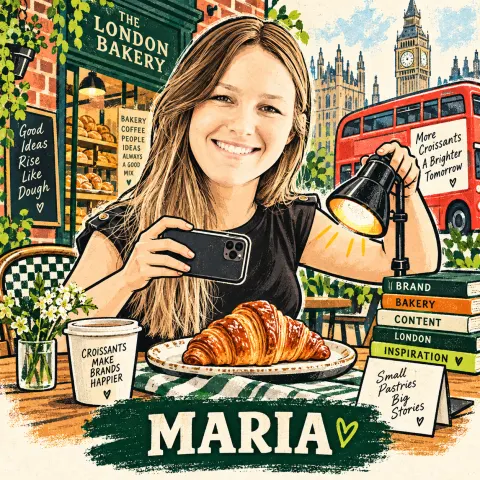
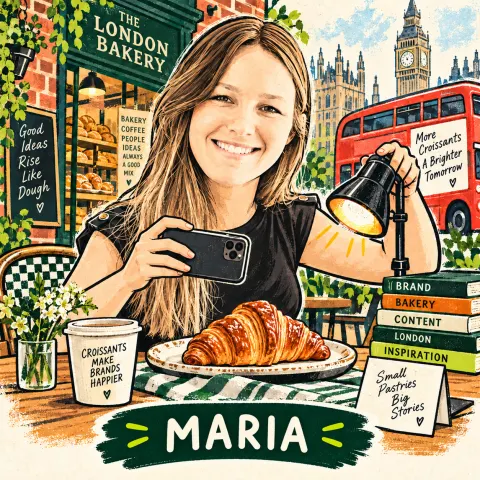
Groep: cartoon Emilie, nieuwe Maria en groepsfoto met alle twintig

diff --git a/app.js b/app.js
@@ -42,7 +42,7 @@ const people=[
 ['maurits-casteleijn','Maurits','Casteleijn',false,'assets/people/maurits-casteleijn',null,'Cartoon van Maurits die een monsterkoffer vol minibroodjes en potjes grondstoffen opent alsof het juwelen zijn.'],
 ['wout-nollen','Wout','Nollen',false,'assets/people/wout-nollen',null,'Cartoon van Wout die een vol blik verse broden balanceert en ondertussen een productielijst afvinkt.'],
 ['anke-daling','Anke','Daling',false,'assets/people/anke-daling',null,'Cartoon van Anke die in een Londens café lachend wijst naar een stijgende grafiek van croissants op haar laptop.'],
-['emilie-tolhuisen','Emilie','Tolhuisen'],
+['emilie-tolhuisen','Emilie','Tolhuisen',false,'assets/people/emilie-tolhuisen',null,'Cartoon van Emilie met lang rood haar die een Londense taart met Big Ben, de London Eye en garde-soldaatjes afwerkt met een spuitzak.'],
 ['rico-romijn','Rico','Romijn',false,'assets/people/rico-romijn',null,'Cartoon van Rico die als testbakker een flinterdun vliesje deeg uitrekt, met proefbroodjes en een weegschaal op de werkbank.'],
 ['jim-van-aken','Jim','van Aken',false,'assets/people/jim-van-aken',null,'Cartoon van Jim die onder een zilveren stolp een overdadig luxe brood onthult.'],
 ['anne-van-kraaij','Anne','van Kraaij',false,'assets/people/anne-van-kraaij',null,'Cartoon van Anne die met een liniaaltje een croissant precies op zijn plek legt in een winkelpresentatie.']
@@ -52,7 +52,7 @@ const initials=p=>(p.voornaam[0]+p.achternaam.split(' ').filter(w=>!/^(van|de|de
 function personCard(p){const tag=p.projectgroep?'<span class="pg">Projectgroep</span>':'';
 if(p.afbeelding)return `<li><button class="person" data-person="${p.id}" aria-haspopup="dialog"><img src="${p.afbeelding}-480.webp" width="480" height="480" loading="lazy" decoding="async" alt="${p.alt}"><span class="pname">${fullName(p)}</span>${tag}<span class="sr">, bekijk grote illustratie</span></button></li>`;
 return `<li><div class="person pending"><span class="initials" aria-hidden="true">${initials(p)}</span><span class="pname">${fullName(p)}</span>${tag}<span class="soon">Cartoon volgt</span></div></li>`}
-function group(){const done=people.filter(p=>p.afbeelding).length;view.innerHTML=`<figure class="group-hero"><div class="hero-scroll"><button class="hero-btn" id="hero-open" aria-label="Groepscartoon groot bekijken"><img src="assets/group/groep.webp" srcset="assets/group/groep-1200.webp 1200w, assets/group/groep.webp 2157w" sizes="(max-width:700px) 780px, 100vw" width="2157" height="729" alt="Groepscartoon van de Bakery Nexus-groep voor Tower Bridge, ieder met zijn eigen bakkersvak"></button></div><figcaption class="muted">Veeg opzij om iedereen te zien · tik om te vergroten</figcaption></figure><div class="section-head"><h2>De groep.</h2><span class="muted">${people.length} deelnemers · ${done} cartoons klaar</span></div><p class="group-intro">Iedereen krijgt een eigen Londens personage. Tik op een cartoon om hem groot te bekijken.</p><ul class="people">${people.map(personCard).join('')}</ul><dialog id="person-dialog" aria-labelledby="pd-title"><form method="dialog"><button class="pd-close" aria-label="Sluiten">✕</button></form><img id="pd-img" width="1080" height="1080" alt=""><p id="pd-title"></p></dialog>`;
+function group(){const done=people.filter(p=>p.afbeelding).length;view.innerHTML=`<figure class="group-hero"><div class="hero-scroll"><button class="hero-btn" id="hero-open" aria-label="Groepscartoon groot bekijken"><img src="assets/group/groep.webp" srcset="assets/group/groep-1000.webp 1000w, assets/group/groep.webp 1448w" sizes="(max-width:700px) 100vw, 1100px" width="1448" height="1086" alt="Groepscartoon van de Bakery Nexus-groep voor Tower Bridge, alle twintig met hun eigen bakkersvak"></button></div></figure><div class="section-head"><h2>De groep.</h2><span class="muted">${people.length} deelnemers · ${done} cartoons klaar</span></div><p class="group-intro">Iedereen heeft een eigen Londens personage. Tik op een cartoon om hem groot te bekijken.</p><ul class="people">${people.map(personCard).join('')}</ul><dialog id="person-dialog" aria-labelledby="pd-title"><form method="dialog"><button class="pd-close" aria-label="Sluiten">✕</button></form><img id="pd-img" width="1080" height="1080" alt=""><p id="pd-title"></p></dialog>`;
 const dlg=document.getElementById('person-dialog');document.getElementById('hero-open').onclick=()=>{const img=document.getElementById('pd-img');img.src='assets/group/groep.webp';img.alt='Groepscartoon van de Bakery Nexus-groep voor Tower Bridge';document.getElementById('pd-title').textContent='Bakery Nexus × London';dlg.classList.add('breed');dlg.showModal()};dlg.addEventListener('close',()=>dlg.classList.remove('breed'));view.querySelectorAll('[data-person]').forEach(b=>b.onclick=()=>{const p=people.find(x=>x.id===b.dataset.person);const img=document.getElementById('pd-img');img.src=p.afbeelding+'.webp';img.alt=p.alt;document.getElementById('pd-title').textContent=fullName(p);dlg.showModal()});
 dlg.addEventListener('click',e=>{if(e.target===dlg)dlg.close()})}
 // Inspiratieboek: foto's en notities centraal in Supabase.

diff --git a/style.css b/style.css
@@ -13,6 +13,6 @@
 @media print{#idee-dialog{display:none}}
 .board{display:grid;grid-template-columns:1fr 1fr;gap:18px;margin-bottom:18px}.board .card{padding:20px 22px}.board ol{list-style:none;margin:12px 0 0;padding:0;display:grid;gap:10px}.board li,.board-idee{display:flex;align-items:center;gap:10px;min-height:44px}.board-idee{width:100%;background:none;border:0;padding:0;text-align:left;color:inherit}.rank{font-family:'Space Grotesk',sans-serif;font-weight:700;color:var(--orange);width:14px}.av{width:38px;height:38px;flex:none;border-radius:50%;object-fit:cover;background:#e7ecdf}.av.initials{display:grid;place-items:center;aspect-ratio:auto;font-size:14px}.bn{flex:1;min-width:0;font-weight:700;font-size:14px;line-height:1.3}.bn small{display:block;font-weight:400;color:var(--muted);font-size:12px}.board strong{font-family:'Space Grotesk',sans-serif;white-space:nowrap}.person .door{display:flex;align-items:center;gap:6px;font-size:12px;color:var(--muted);margin:6px 2px 0}.person .door .av,.id-door .av{width:22px;height:22px;font-size:9px}.id-door{display:flex;align-items:center;gap:8px;margin:8px 0 0;font-weight:700;font-size:14px}.score-now{margin:4px 0}.score-now strong{font-family:'Space Grotesk',sans-serif;font-size:22px}.stars{display:flex;gap:4px;margin:4px 0}.stars button{width:46px;height:46px;border:0;background:none;font-size:32px;line-height:1;color:var(--line);padding:0}.stars button.on{color:var(--orange)}#id-score{border-top:1px solid var(--line);margin:12px 0;padding-top:8px}
 @media(max-width:700px){.board{grid-template-columns:1fr;gap:10px}}
-.group-hero{margin:30px 0 0}.hero-scroll{border-radius:10px;overflow:hidden;background:var(--ink)}.hero-btn{display:block;width:100%;padding:0;border:0;background:none;cursor:zoom-in}.hero-scroll img{display:block;width:100%;height:auto}.group-hero figcaption{display:none;margin-top:6px;font-size:12px}#person-dialog.breed{width:min(96vw,1400px)}
-@media(max-width:700px){.group-hero{margin:22px -20px 0}.hero-scroll{border-radius:0;overflow-x:auto;overflow-y:hidden;-webkit-overflow-scrolling:touch;scrollbar-width:none}.hero-scroll::-webkit-scrollbar{display:none}.hero-btn{width:max-content}.hero-scroll img{width:auto;height:260px;max-width:none}.group-hero figcaption{display:block;padding:0 20px}}
+.group-hero{margin:30px 0 0}.hero-scroll{border-radius:10px;overflow:hidden;background:var(--ink)}.hero-btn{display:block;width:100%;padding:0;border:0;background:none;cursor:zoom-in}.hero-scroll img{display:block;width:100%;height:auto}#person-dialog.breed{width:min(96vw,1400px)}
+@media(max-width:700px){.group-hero{margin:22px -20px 0}.hero-scroll{border-radius:0}}
 @media print{.group-hero{display:none}}
